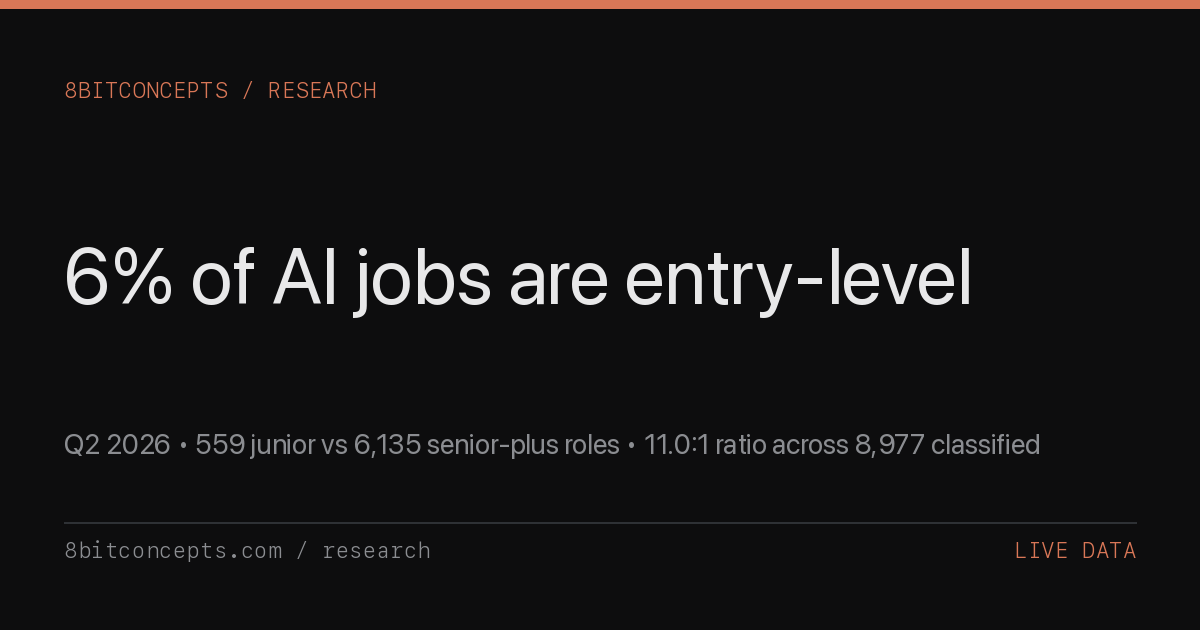
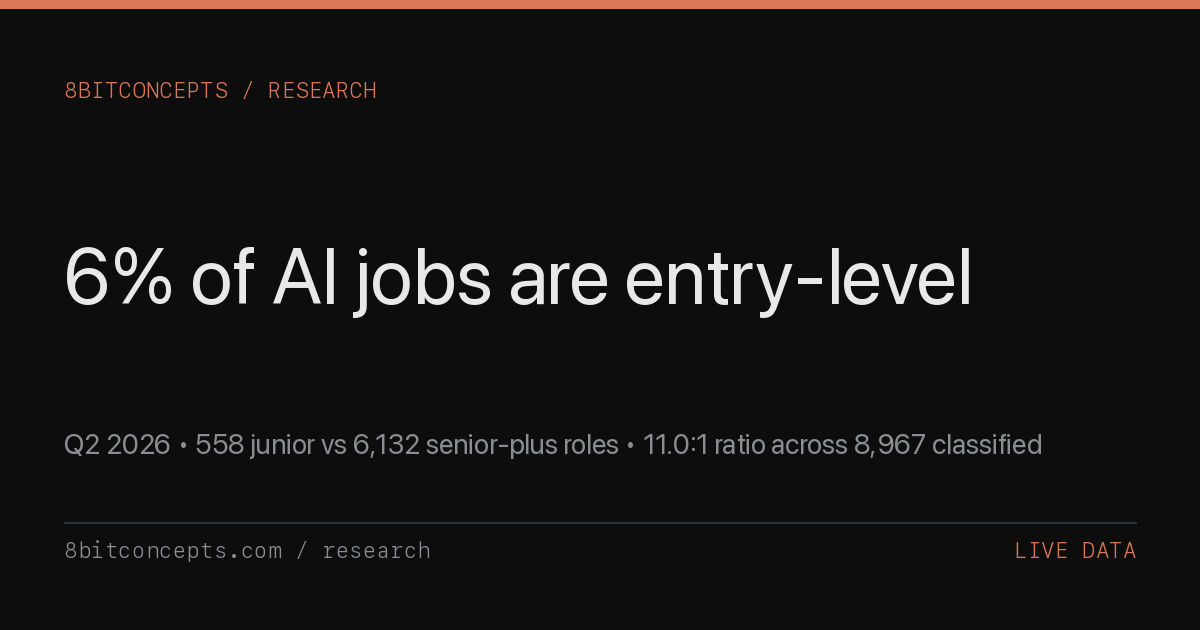
entry-level-gap: auto-regenerate 2026-08-24

Changed region(s): [[0.2775, 0.6937, 0.8942, 0.7238], [0.185, 0.6937, 0.2467, 0.7238]]

diff --git a/research/q2-2026-entry-level-ai-gap.html b/research/q2-2026-entry-level-ai-gap.html
@@ -5,11 +5,11 @@
   <meta name="viewport" content="width=device-width, initial-scale=1.0" />
   <meta name="referrer" content="strict-origin-when-cross-origin" />
   <meta name="color-scheme" content="dark light" />
-  <meta name="last-updated" content="2026-08-17" />
+  <meta name="last-updated" content="2026-08-24" />
   <title>Q2 2026 The Junior AI Hiring Gap -- 8bitconcepts</title>
-  <meta name="description" content="Live analysis: only 6.2% of AI/ML engineering roles are open to juniors (559 of 8,977). 11.0:1 senior-plus-to-junior ratio &amp;mdash; the tightest in tech. Why the squeeze exists, which companies still hire juniors, and the actionable path in. Auto-regenerated weekly." />
+  <meta name="description" content="Live analysis: only 6.2% of AI/ML engineering roles are open to juniors (558 of 8,967). 11.0:1 senior-plus-to-junior ratio &amp;mdash; the tightest in tech. Why the squeeze exists, which companies still hire juniors, and the actionable path in. Auto-regenerated weekly." />
   <meta property="og:title" content="Q2 2026 The Junior AI Hiring Gap -- 8bitconcepts" />
-  <meta property="og:description" content="6.2% of AI/ML roles are open to juniors. 11.0:1 senior-plus ratio. 8,977 classified roles across 491 companies. Live data, 2026-08-17." />
+  <meta property="og:description" content="6.2% of AI/ML roles are open to juniors. 11.0:1 senior-plus ratio. 8,967 classified roles across 486 companies. Live data, 2026-08-24." />
   <meta property="og:type" content="article" />
   <meta property="og:url" content="https://8bitconcepts.com/research/q2-2026-entry-level-ai-gap.html" />
   <meta property="og:image" content="https://8bitconcepts.com/research/og/q2-2026-entry-level-ai-gap.png" />
@@ -17,7 +17,7 @@
   <meta property="og:image:height" content="630" />
   <meta name="twitter:card" content="summary_large_image" />
   <meta name="twitter:title" content="Q2 2026 The Junior AI Hiring Gap" />
-  <meta name="twitter:description" content="Only 6.2% of AI/ML jobs are entry-level. 11.0:1 senior-plus ratio. 2026-08-17." />
+  <meta name="twitter:description" content="Only 6.2% of AI/ML jobs are entry-level. 11.0:1 senior-plus ratio. 2026-08-24." />
   <meta name="twitter:image" content="https://8bitconcepts.com/research/og/q2-2026-entry-level-ai-gap.png" />
   <link rel="canonical" href="https://8bitconcepts.com/research/q2-2026-entry-level-ai-gap.html" />
   <link rel="preconnect" href="https://fonts.googleapis.com" />
@@ -478,10 +478,10 @@
     "@context": "https://schema.org",
     "@type": "Article",
     "headline": "Q2 2026 The Junior AI Hiring Gap",
-    "description": "Live analysis of the junior AI hiring gap from aidevboard.com: experience-level mix, junior-friendly companies, salary gap, why the squeeze exists, and the actionable path in for career-switchers. Across 8,977 classified postings.",
+    "description": "Live analysis of the junior AI hiring gap from aidevboard.com: experience-level mix, junior-friendly companies, salary gap, why the squeeze exists, and the actionable path in for career-switchers. Across 8,967 classified postings.",
     "url": "https://8bitconcepts.com/research/q2-2026-entry-level-ai-gap.html",
     "datePublished": "2026-04-17",
-    "dateModified": "2026-08-17",
+    "dateModified": "2026-08-24",
     "author": {"@type": "Organization", "name": "8bitconcepts", "url": "https://8bitconcepts.com"},
     "publisher": {"@type": "Organization", "name": "8bitconcepts", "url": "https://8bitconcepts.com"},
     "image": "https://8bitconcepts.com/research/og/q2-2026-entry-level-ai-gap.png",
@@ -521,10 +521,10 @@
 
     <h1>Q2 2026 The Junior AI Hiring Gap</h1>
 
-    <p class="subtitle">Live experience-level data across 8,977 classified AI/ML engineering roles. Only 6.2% are open to juniors. For every entry-level opening there are 11.0 senior-plus roles. Data pulled from <a href="https://aidevboard.com/api/v1/stats">aidevboard.com/api/v1/stats</a>.</p>
+    <p class="subtitle">Live experience-level data across 8,967 classified AI/ML engineering roles. Only 6.2% are open to juniors. For every entry-level opening there are 11.0 senior-plus roles. Data pulled from <a href="https://aidevboard.com/api/v1/stats">aidevboard.com/api/v1/stats</a>.</p>
 
     <div class="meta">
-      <span class="meta-date">2026-08-17</span>
+      <span class="meta-date">2026-08-24</span>
       <span class="meta-tag">Live Data</span>
       <span class="meta-read">~800 words</span>
     </div>
@@ -533,12 +533,12 @@
 
       <h2>Executive summary</h2>
 
-      <p>Only <strong>6.2%</strong> of 8,977 classified AI/ML engineering roles are open to juniors (559 of 8,977). For every entry-level opening there are <strong>11.0 senior-plus roles</strong> (6,135 senior + lead + principal). This is the tightest junior-to-senior ratio in any tech specialty tracked by the AI Dev Jobs index. Breaking in is statistically rarer than staying in.</p>
+      <p>Only <strong>6.2%</strong> of 8,967 classified AI/ML engineering roles are open to juniors (558 of 8,967). For every entry-level opening there are <strong>11.0 senior-plus roles</strong> (6,132 senior + lead + principal). This is the tightest junior-to-senior ratio in any tech specialty tracked by the AI Dev Jobs index. Breaking in is statistically rarer than staying in.</p>
 
       <div class="stat-row">
         <div class="stat-box">
           <div class="stat-num">6.2%</div>
-          <div class="stat-label">of AI/ML roles open to juniors (559 of 8,977)</div>
+          <div class="stat-label">of AI/ML roles open to juniors (558 of 8,967)</div>
         </div>
         <div class="stat-box">
           <div class="stat-num">11.0&times;</div>
@@ -552,7 +552,7 @@
 
       <h2>The squeeze: experience-level mix</h2>
 
-      <p>Across the 8,977 AI/ML engineering postings with an experience-level classification, the distribution is top-heavy. Junior is the smallest band; senior, lead, and principal together account for 68%.</p>
+      <p>Across the 8,967 AI/ML engineering postings with an experience-level classification, the distribution is top-heavy. Junior is the smallest band; senior, lead, and principal together account for 68%.</p>
 
       <table class="data-table">
         <thead>
@@ -563,11 +563,11 @@
           </tr>
         </thead>
         <tbody>
-          <tr><td>Junior / Entry-level</td><td class="num">559</td><td class="num">6.2%</td></tr>
-          <tr><td>Mid</td><td class="num">2,283</td><td class="num">25.4%</td></tr>
-          <tr><td>Senior</td><td class="num">3,023</td><td class="num">33.7%</td></tr>
+          <tr><td>Junior / Entry-level</td><td class="num">558</td><td class="num">6.2%</td></tr>
+          <tr><td>Mid</td><td class="num">2,277</td><td class="num">25.4%</td></tr>
+          <tr><td>Senior</td><td class="num">3,022</td><td class="num">33.7%</td></tr>
           <tr><td>Lead / Staff</td><td class="num">2,487</td><td class="num">27.7%</td></tr>
-          <tr><td>Principal</td><td class="num">625</td><td class="num">7.0%</td></tr>
+          <tr><td>Principal</td><td class="num">623</td><td class="num">6.9%</td></tr>
         </tbody>
       </table>
 
@@ -575,17 +575,17 @@
         <div class="bar-row">
           <div class="bar-label">Junior</div>
           <div class="bar-wrap"><div class="bar" style="width:18.5%;"></div></div>
-          <div class="bar-value">559</div>
+          <div class="bar-value">558</div>
         </div>
         <div class="bar-row">
           <div class="bar-label">Mid</div>
-          <div class="bar-wrap"><div class="bar" style="width:75.5%;"></div></div>
-          <div class="bar-value">2,283</div>
+          <div class="bar-wrap"><div class="bar" style="width:75.3%;"></div></div>
+          <div class="bar-value">2,277</div>
         </div>
         <div class="bar-row">
           <div class="bar-label">Senior</div>
           <div class="bar-wrap"><div class="bar" style="width:100.0%;"></div></div>
-          <div class="bar-value">3,023</div>
+          <div class="bar-value">3,022</div>
         </div>
         <div class="bar-row">
           <div class="bar-label">Lead</div>
@@ -594,8 +594,8 @@
         </div>
         <div class="bar-row">
           <div class="bar-label">Principal</div>
-          <div class="bar-wrap"><div class="bar" style="width:20.7%;"></div></div>
-          <div class="bar-value">625</div>
+          <div class="bar-wrap"><div class="bar" style="width:20.6%;"></div></div>
+          <div class="bar-value">623</div>
         </div>
       </div>
 
@@ -605,15 +605,15 @@
 
       <h2>What &quot;junior AI&quot; actually pays</h2>
 
-      <p>The public stats endpoint does not expose salary by experience band directly &mdash; it publishes a single global average ($232,691) and a global median ($220,000) across the 3,484-posting salary-disclosed subset. But we can triangulate: of the disclosed postings, 363 advertise a midpoint under $150k (a reasonable proxy for the entry-level band), while 593 advertise $300k+. If junior supply is 6% of roles, the under-$150k band is <strong>roughly at odds with</strong> that share &mdash; meaning advertised junior AI pay typically lands in the $100k-$150k range, well above non-AI entry-level engineering but well below the $220,000 index median. <strong>Data gap flag:</strong> the next iteration of this report will break salary by experience band once the <code>/api/v1/stats</code> endpoint exposes it.</p>
+      <p>The public stats endpoint does not expose salary by experience band directly &mdash; it publishes a single global average ($232,716) and a global median ($220,000) across the 3,480-posting salary-disclosed subset. But we can triangulate: of the disclosed postings, 363 advertise a midpoint under $150k (a reasonable proxy for the entry-level band), while 593 advertise $300k+. If junior supply is 6% of roles, the under-$150k band is <strong>roughly at odds with</strong> that share &mdash; meaning advertised junior AI pay typically lands in the $100k-$150k range, well above non-AI entry-level engineering but well below the $220,000 index median. <strong>Data gap flag:</strong> the next iteration of this report will break salary by experience band once the <code>/api/v1/stats</code> endpoint exposes it.</p>
 
       <h2>Why the squeeze exists</h2>
 
-      <p>Three structural reasons explain the junior squeeze. <strong>Judgment under uncertainty.</strong> AI/ML engineering outputs (prompts, evals, RAG retrievers, agent pipelines) don't have deterministic unit tests &mdash; they require a senior's pattern-matching to spot when a system is quietly wrong. Companies willing to pay $232,691 average don't want to train that judgment from scratch. <strong>Compute-cost economics.</strong> A senior engineer ships iterations against GPU-hours that cost $5-$50 per experiment. The efficiency delta between a senior and a junior running GPU jobs compounds faster than it does in CRUD web development, so staffing leans toward senior. <strong>The ML-plus-LLM double requirement.</strong> Companies hiring for &quot;AI&quot; in 2026 typically want traditional ML fluency (PyTorch, distributed training, MLOps &mdash; the 2,028 postings combining those skills) <em>plus</em> recent LLM / agent experience. Juniors rarely have both simultaneously.</p>
+      <p>Three structural reasons explain the junior squeeze. <strong>Judgment under uncertainty.</strong> AI/ML engineering outputs (prompts, evals, RAG retrievers, agent pipelines) don't have deterministic unit tests &mdash; they require a senior's pattern-matching to spot when a system is quietly wrong. Companies willing to pay $232,716 average don't want to train that judgment from scratch. <strong>Compute-cost economics.</strong> A senior engineer ships iterations against GPU-hours that cost $5-$50 per experiment. The efficiency delta between a senior and a junior running GPU jobs compounds faster than it does in CRUD web development, so staffing leans toward senior. <strong>The ML-plus-LLM double requirement.</strong> Companies hiring for &quot;AI&quot; in 2026 typically want traditional ML fluency (PyTorch, distributed training, MLOps &mdash; the 2,025 postings combining those skills) <em>plus</em> recent LLM / agent experience. Juniors rarely have both simultaneously.</p>
 
       <h2>Bootcamps, CS grads, and career-switchers</h2>
 
-      <p><strong>Is the bootcamp path viable?</strong> The data says: narrow pipe, not closed pipe. The junior AI/ML market is roughly 559 roles &mdash; a fraction of the 8,977-role total, but still 559 concrete opportunities across 491 companies in the index. The realistic read for a career-switcher: (1) the generic &quot;AI engineer&quot; bootcamp targeting LLMs alone will not beat an ML-native CS grad on the same req, (2) the working angle is a <em>domain wedge</em> &mdash; AI-for-robotics, AI-for-healthcare, AI-for-security, AI-for-legal &mdash; where the ML stack is a smaller share of the role than the domain knowledge, (3) research labs (Anthropic, OpenAI, DeepMind) post &quot;Resident&quot; and &quot;Fellow&quot; tracks that function as senior-paid junior seats. These look like the highest-leverage entry points in the current market. The 7% share is a filter, not a ceiling.</p>
+      <p><strong>Is the bootcamp path viable?</strong> The data says: narrow pipe, not closed pipe. The junior AI/ML market is roughly 558 roles &mdash; a fraction of the 8,967-role total, but still 558 concrete opportunities across 486 companies in the index. The realistic read for a career-switcher: (1) the generic &quot;AI engineer&quot; bootcamp targeting LLMs alone will not beat an ML-native CS grad on the same req, (2) the working angle is a <em>domain wedge</em> &mdash; AI-for-robotics, AI-for-healthcare, AI-for-security, AI-for-legal &mdash; where the ML stack is a smaller share of the role than the domain knowledge, (3) research labs (Anthropic, OpenAI, DeepMind) post &quot;Resident&quot; and &quot;Fellow&quot; tracks that function as senior-paid junior seats. These look like the highest-leverage entry points in the current market. The 7% share is a filter, not a ceiling.</p>
 
       <h2>Companies that DO hire juniors</h2>
 
@@ -638,11 +638,11 @@
 
       <h2>Signal for job seekers</h2>
 
-      <p><strong>If you're trying to break in.</strong> Don't optimize for the 491-company index overall &mdash; the signal is too diluted. Target the 4 of companies actually posting junior seats (see table above). Apply to research-lab residency programs that pay senior-band salaries to juniors. Specialize in a non-trivial domain (robotics, biotech, finance, defense) before the AI layer &mdash; <em>AI-for-X</em> always hires junior talent faster than pure-ML orgs do, because the domain expertise is the harder-to-hire input.</p>
+      <p><strong>If you're trying to break in.</strong> Don't optimize for the 486-company index overall &mdash; the signal is too diluted. Target the 4 of companies actually posting junior seats (see table above). Apply to research-lab residency programs that pay senior-band salaries to juniors. Specialize in a non-trivial domain (robotics, biotech, finance, defense) before the AI layer &mdash; <em>AI-for-X</em> always hires junior talent faster than pure-ML orgs do, because the domain expertise is the harder-to-hire input.</p>
 
       <h2>Methodology</h2>
 
-      <p>Generated from the live <a href="https://aidevboard.com/api/v1/stats">aidevboard.com/api/v1/stats</a> endpoint (public, unauthenticated) plus a paginated walk of <a href="https://aidevboard.com/api/v1/jobs">/api/v1/jobs</a> for per-company experience-level aggregation. Index scrapes 560+ ATS sources on a daily cron and deduplicates by (company, title, location). The <code>experience_level</code> field is classified by a rules-based parser from title + seniority signals &mdash; see <a href="https://github.com/unitedideas/aidevboard-mcp">open-source parser</a>. Per-company junior counts in this paper use a title-regex fallback (<code>junior</code>, <code>jr</code>, <code>entry-level</code>, <code>new grad</code>, <code>associate</code>, <code>intern</code>, <code>early career</code>) over the paginated job sample &mdash; they're a proxy, not a source of truth, and skew conservative (any title with &quot;senior&quot; anywhere is dropped from the junior bucket). Of 8,977 roles in the index, 8,977 have a non-empty experience-level classification. Salary averages are from the 3,484-posting salary-disclosed subset. This page auto-regenerates weekly (Mon 9:15 am PT).</p>
+      <p>Generated from the live <a href="https://aidevboard.com/api/v1/stats">aidevboard.com/api/v1/stats</a> endpoint (public, unauthenticated) plus a paginated walk of <a href="https://aidevboard.com/api/v1/jobs">/api/v1/jobs</a> for per-company experience-level aggregation. Index scrapes 560+ ATS sources on a daily cron and deduplicates by (company, title, location). The <code>experience_level</code> field is classified by a rules-based parser from title + seniority signals &mdash; see <a href="https://github.com/unitedideas/aidevboard-mcp">open-source parser</a>. Per-company junior counts in this paper use a title-regex fallback (<code>junior</code>, <code>jr</code>, <code>entry-level</code>, <code>new grad</code>, <code>associate</code>, <code>intern</code>, <code>early career</code>) over the paginated job sample &mdash; they're a proxy, not a source of truth, and skew conservative (any title with &quot;senior&quot; anywhere is dropped from the junior bucket). Of 8,967 roles in the index, 8,967 have a non-empty experience-level classification. Salary averages are from the 3,480-posting salary-disclosed subset. This page auto-regenerates weekly (Mon 9:15 am PT).</p>
 
       <p><strong>Download raw data:</strong> The experience-level + per-company junior dataset is mirrored as a public gist &mdash; <a href="https://gist.githubusercontent.com/unitedideas/d400d2d9a85692b758b96ab5fe741a22/raw/ai-entry-level.csv">CSV</a> &middot; <a href="https://gist.githubusercontent.com/unitedideas/d400d2d9a85692b758b96ab5fe741a22/raw/ai-entry-level.md">Markdown</a> &middot; <a href="https://gist.github.com/unitedideas/d400d2d9a85692b758b96ab5fe741a22">view on GitHub</a>. Auto-updated every weekly regeneration; canonical raw URLs are stable across revisions.</p>
 
@@ -692,7 +692,7 @@
     <div class="footnotes">
       <h4>Sources</h4>
       <ol>
-        <li>AI Dev Jobs &mdash; <a href="https://aidevboard.com/api/v1/stats">/api/v1/stats</a>, pulled 2026-08-17T16:15:01Z. Public unauthenticated endpoint.</li>
+        <li>AI Dev Jobs &mdash; <a href="https://aidevboard.com/api/v1/stats">/api/v1/stats</a>, pulled 2026-08-24T16:15:01Z. Public unauthenticated endpoint.</li>
         <li>AI Dev Jobs &mdash; <a href="https://aidevboard.com/api/v1/jobs">/api/v1/jobs</a>, paginated walk for per-company junior-title aggregation.</li>
         <li>Experience-level classification is derived from job title + seniority signals by a rules-based parser. Per-company junior counts use a title-regex fallback (<code>junior</code>, <code>jr</code>, <code>entry-level</code>, <code>new grad</code>, <code>associate</code>, <code>intern</code>, <code>early career</code>).</li>
         <li>Salary figures are employer-advertised midpoints from public ATS feeds. The stats endpoint does not currently break salary by experience band; we triangulate from distribution buckets.</li>
